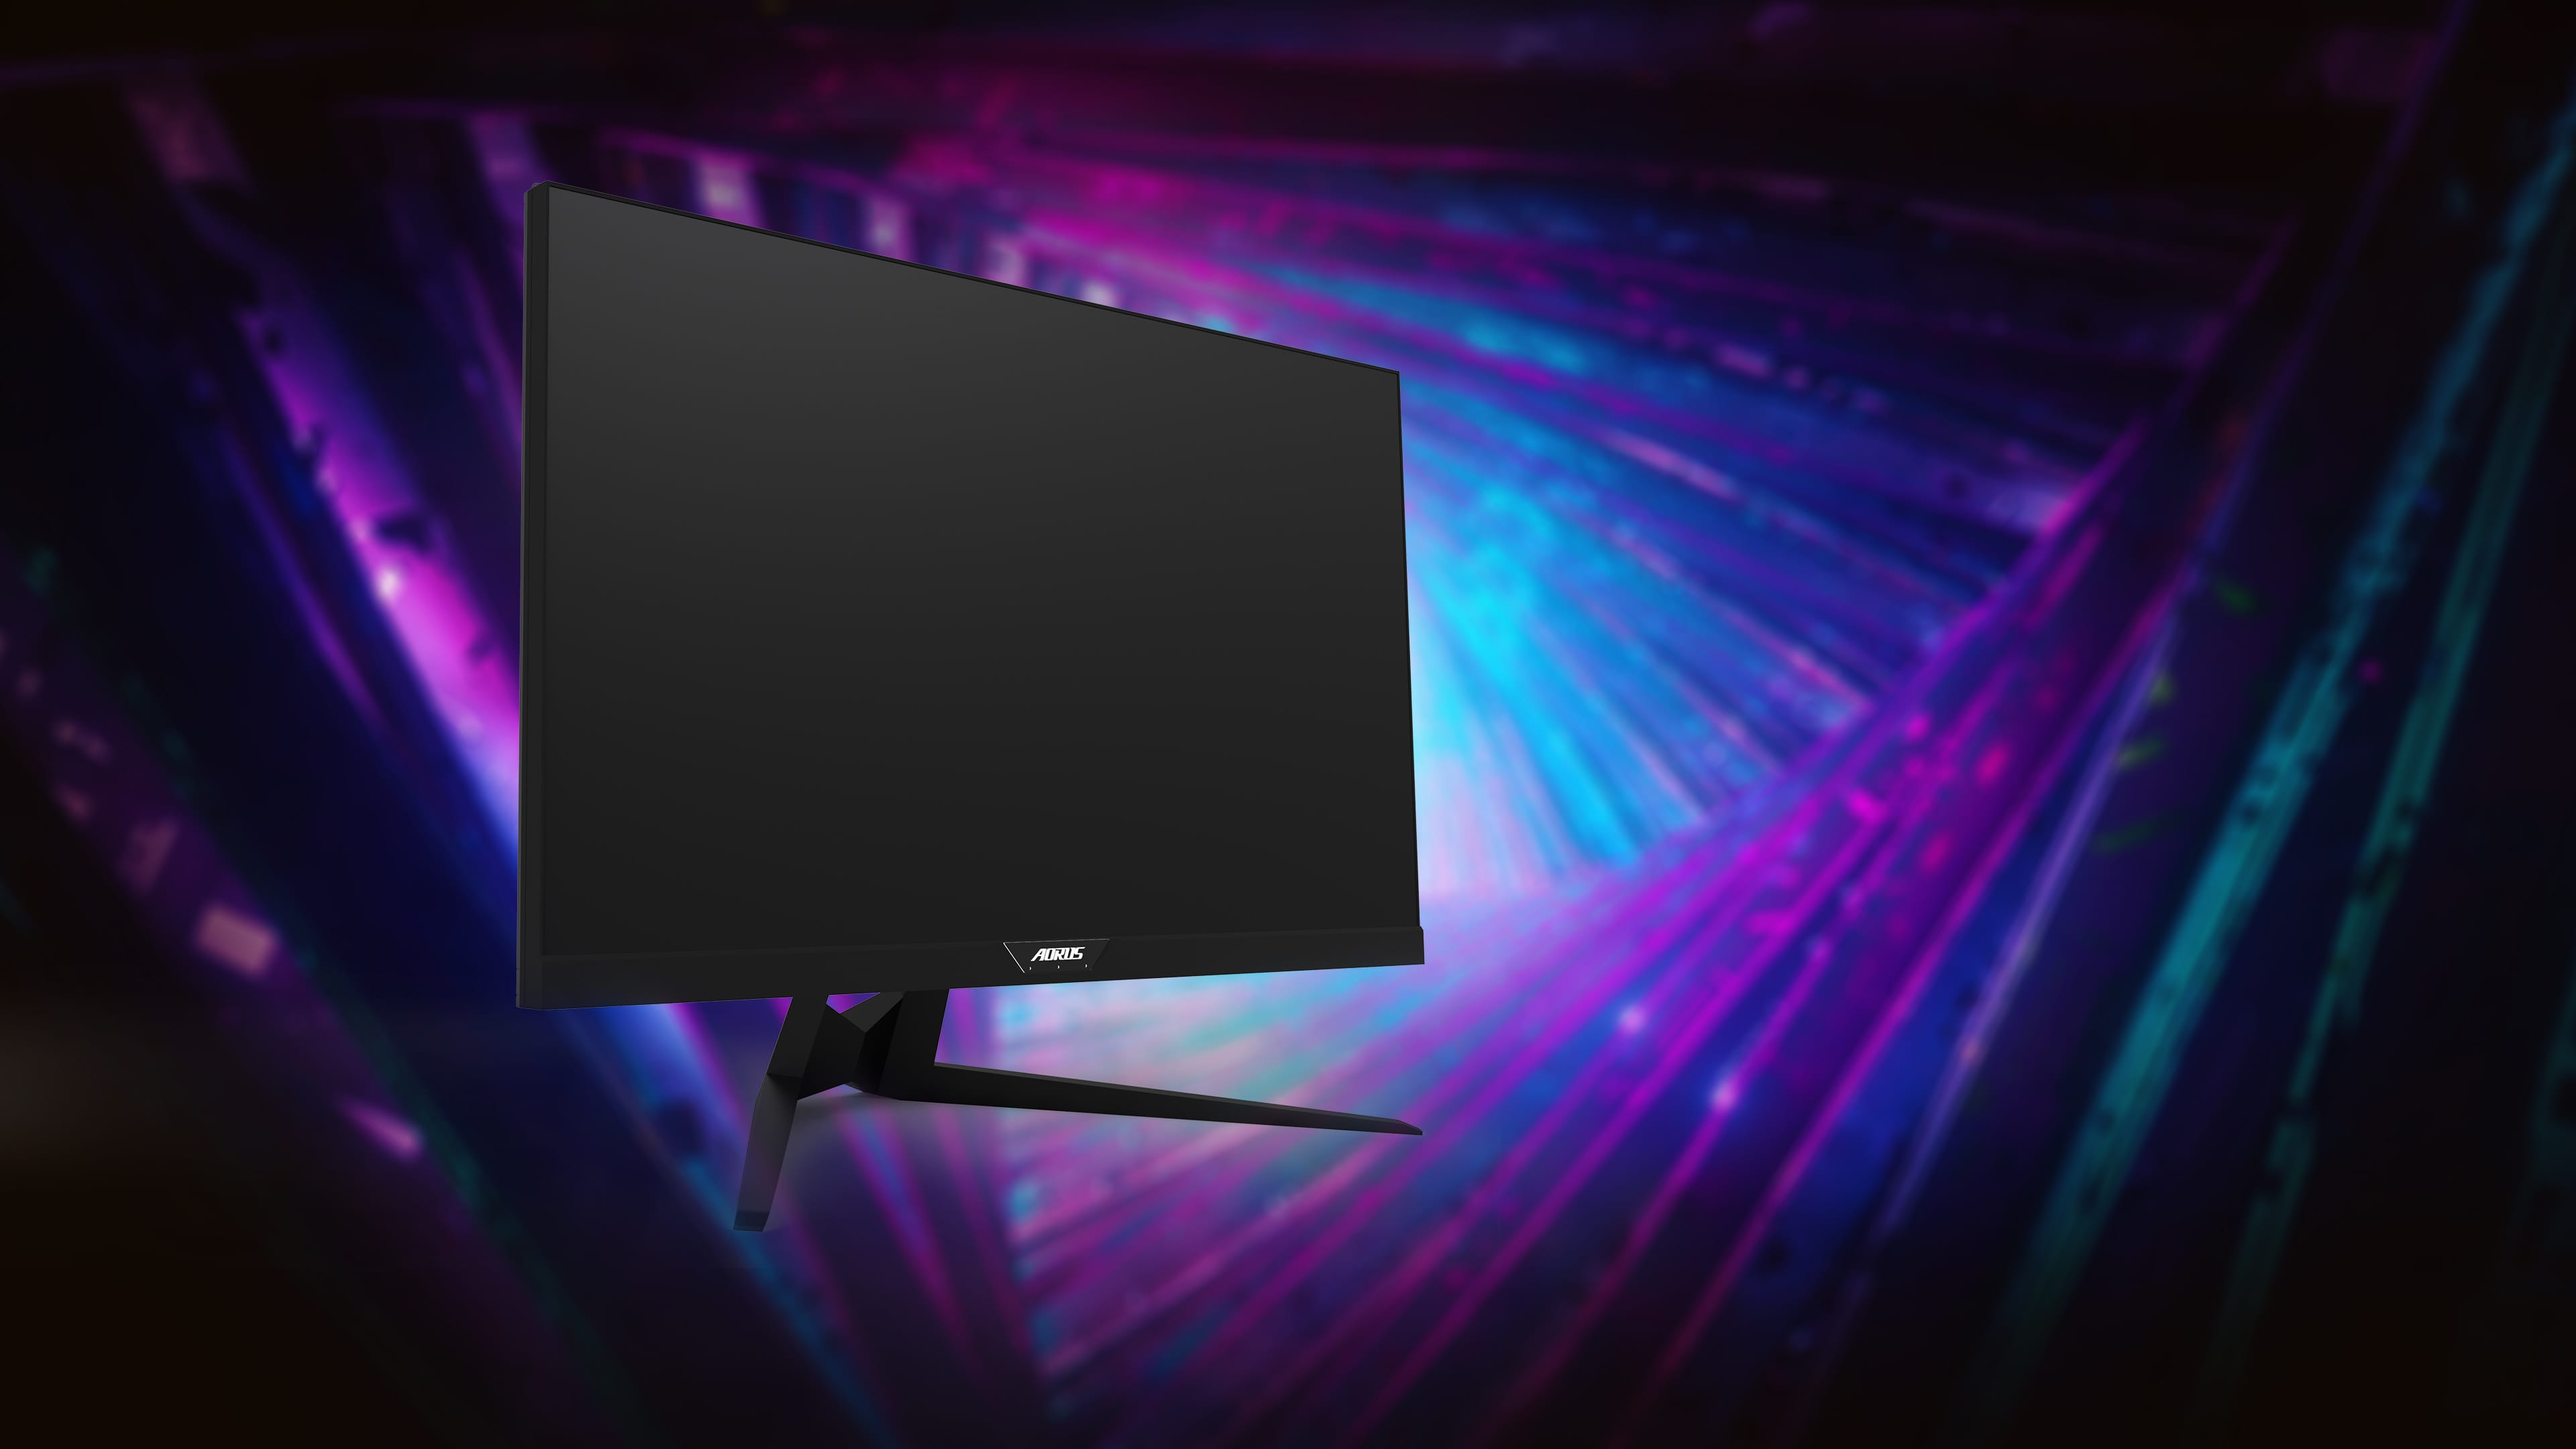
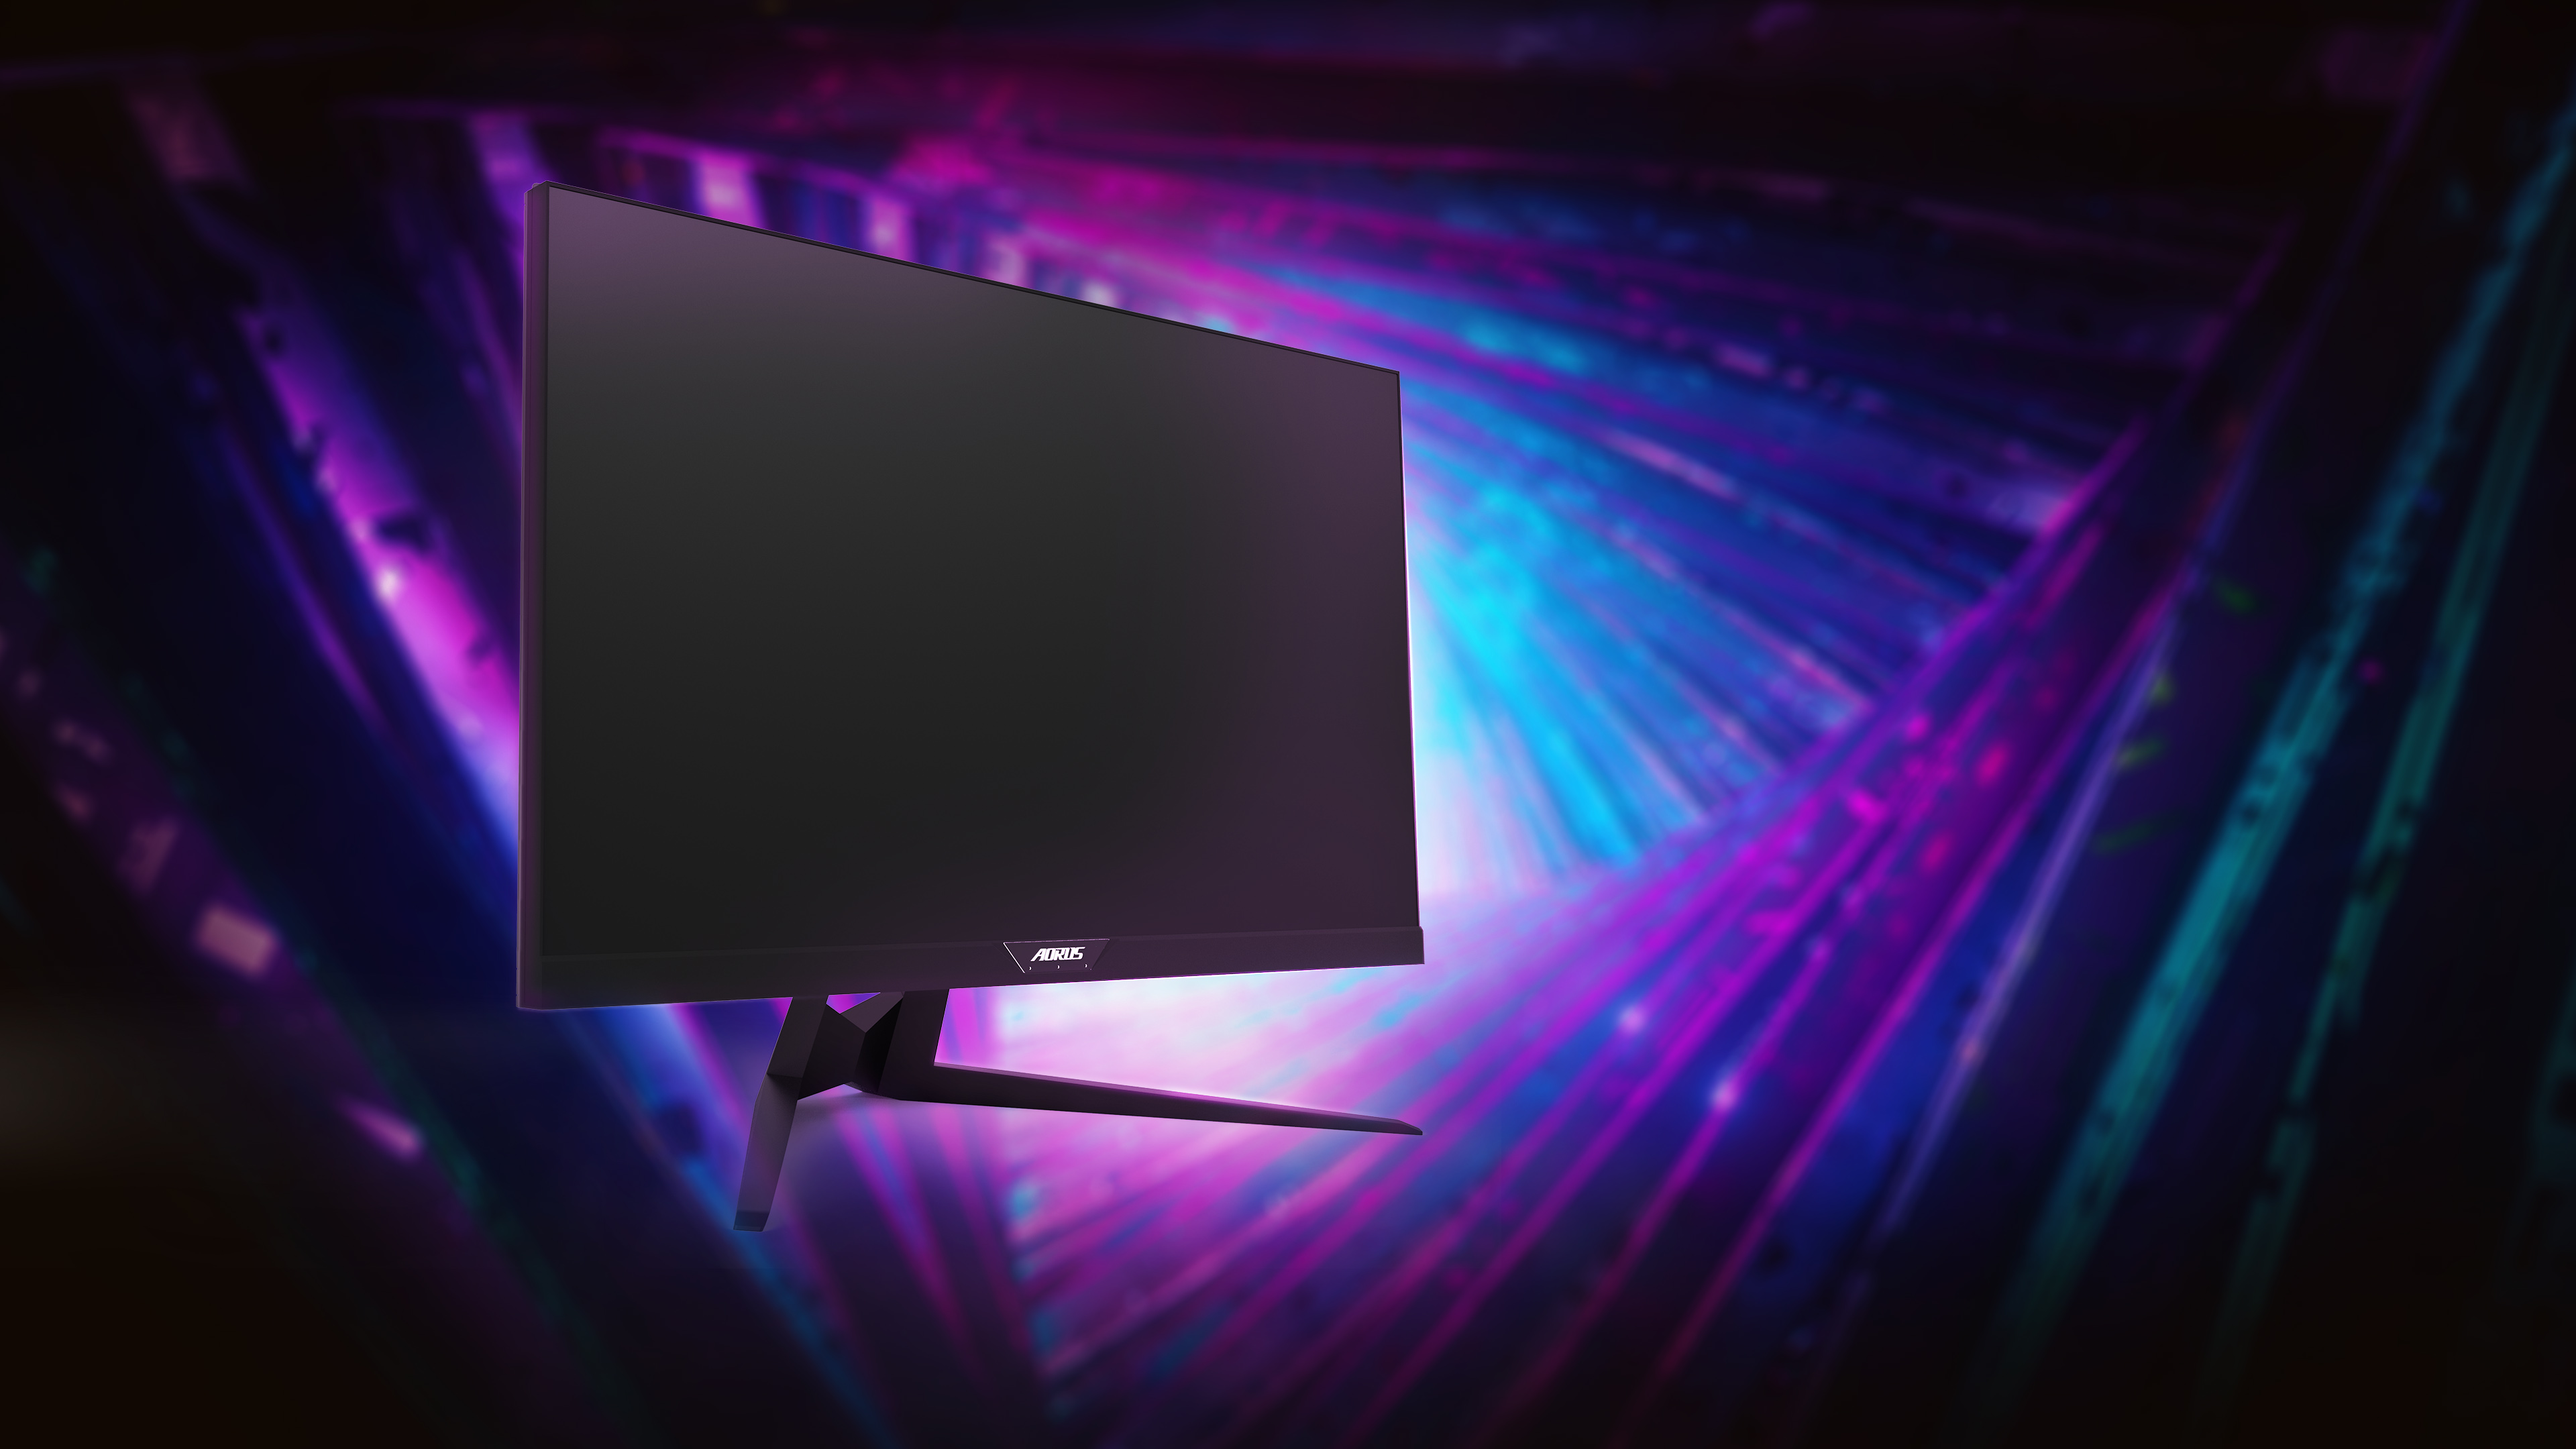
index: slide 2 bg

Changed region(s): [[0.25, 0.1551, 0.5625, 0.8685], [0.1875, 0.0931, 0.4062, 0.6204]]

diff --git a/assets/css/main.css b/assets/css/main.css
@@ -331,6 +331,23 @@
   background-image: url("../../assets/images/home-slider/HUD-bg.jpg");
 }
 
+.slide-inner--image .slide-inner--HUD-screen {
+  position: absolute;
+  background-image: url("../../assets/images/home-slider/HUD-screen.png");
+  width: 100%;
+  height: 100%;
+  background-size: cover;
+  background-position: center;
+  -webkit-animation-name: robot-bg;
+  animation-name: robot-bg;
+  -webkit-animation-duration: 6s;
+  animation-duration: 6s;
+  -webkit-animation-fill-mode: both;
+  animation-fill-mode: both;
+  -webkit-animation-iteration-count: infinite;
+  animation-iteration-count: infinite;
+}
+
 .slide-inner--HUD {
   width: 100%;
   height: 100%;
@@ -342,9 +359,17 @@
 .slide-inner--HUD .slide-inner--HUD-box {
   width: 100%;
   height: 100%;
-  -webkit-transform: translate(-300px, -100px);
-  -ms-transform: translate(-300px, -100px);
-  transform: translate(-300px, -100px);
+  -webkit-transform: translate(-310px, -100px);
+  -ms-transform: translate(-310px, -100px);
+  transform: translate(-310px, -100px);
+}
+
+.slide-inner--HUD .slide-inner--HUD-box_hud_bg {
+  width: 100%;
+  height: 100%;
+  position: absolute;
+  background-repeat: no-repeat;
+  background-position: center center;
 }
 
 .slide-inner--HUD .slide-inner--HUD-box_logo {
@@ -409,8 +434,8 @@
   width: 100%;
   height: 100%;
   position: absolute;
-  -webkit-transform: rotateX(-28deg) rotateY(-25deg) rotateZ(-2deg) translate(350px, -20px) scale(0.3);
-  transform: rotateX(-28deg) rotateY(-25deg) rotateZ(-2deg) translate(350px, -20px) scale(0.3);
+  -webkit-transform: rotateX(-28deg) rotateY(-25deg) rotateZ(-2.3deg) translate(380px, -80px) scale(0.25);
+  transform: rotateX(-28deg) rotateY(-25deg) rotateZ(-2.3deg) translate(380px, -80px) scale(0.25);
   -webkit-filter: drop-shadow(0 0 0.75rem #2272D2) brightness(150%);
   filter: drop-shadow(0 0 0.75rem #2272D2) brightness(150%);
 }
@@ -421,14 +446,14 @@
   animation-name: fill-a;
   -webkit-animation-duration: 2s;
   animation-duration: 2s;
-  -webkit-animation-delay: 2s;
-  animation-delay: 2s;
+  -webkit-animation-delay: 3.5s;
+  animation-delay: 3.5s;
   -webkit-animation-iteration-count: infinite;
   animation-iteration-count: infinite;
   -webkit-animation-timing-function: linear;
   animation-timing-function: linear;
-  -webkit-animation-fill-mode: backwards;
-  animation-fill-mode: backwards;
+  -webkit-animation-fill-mode: forwards;
+  animation-fill-mode: forwards;
 }
 
 .slide-inner--HUD .slide-inner--HUD-box_bar #up #Fill-9 {
@@ -437,14 +462,14 @@
   animation-name: fill-b;
   -webkit-animation-duration: 2s;
   animation-duration: 2s;
-  -webkit-animation-delay: 1.5s;
-  animation-delay: 1.5s;
+  -webkit-animation-delay: 3s;
+  animation-delay: 3s;
   -webkit-animation-iteration-count: infinite;
   animation-iteration-count: infinite;
   -webkit-animation-timing-function: linear;
   animation-timing-function: linear;
-  -webkit-animation-fill-mode: backwards;
-  animation-fill-mode: backwards;
+  -webkit-animation-fill-mode: forwards;
+  animation-fill-mode: forwards;
 }
 
 .slide-inner--HUD .slide-inner--HUD-box_bar #up #Fill-8 {
@@ -453,14 +478,14 @@
   animation-name: fill-c;
   -webkit-animation-duration: 2s;
   animation-duration: 2s;
-  -webkit-animation-delay: 1s;
-  animation-delay: 1s;
+  -webkit-animation-delay: 2.5s;
+  animation-delay: 2.5s;
   -webkit-animation-iteration-count: infinite;
   animation-iteration-count: infinite;
   -webkit-animation-timing-function: linear;
   animation-timing-function: linear;
-  -webkit-animation-fill-mode: backwards;
-  animation-fill-mode: backwards;
+  -webkit-animation-fill-mode: forwards;
+  animation-fill-mode: forwards;
 }
 
 .slide-inner--HUD .slide-inner--HUD-box_bar #up #Fill-7 {
@@ -469,25 +494,22 @@
   animation-name: fill-d;
   -webkit-animation-duration: 2s;
   animation-duration: 2s;
-  -webkit-animation-delay: 0.5s;
-  animation-delay: 0.5s;
+  -webkit-animation-delay: 2s;
+  animation-delay: 2s;
   -webkit-animation-iteration-count: infinite;
   animation-iteration-count: infinite;
   -webkit-animation-timing-function: linear;
   animation-timing-function: linear;
-  -webkit-animation-fill-mode: backwards;
-  animation-fill-mode: backwards;
+  -webkit-animation-fill-mode: forwards;
+  animation-fill-mode: forwards;
 }
 
 @-webkit-keyframes fill-a {
   0% {
     opacity: 0;
   }
-  50% {
+  25% {
     opacity: 1;
-  }
-  100% {
-    opacity: 0;
   }
 }
 
@@ -495,11 +517,8 @@
   0% {
     opacity: 0;
   }
-  50% {
+  25% {
     opacity: 1;
-  }
-  100% {
-    opacity: 0;
   }
 }
 
@@ -510,9 +529,6 @@
   50% {
     opacity: 1;
   }
-  100% {
-    opacity: 0;
-  }
 }
 
 @keyframes fill-b {
@@ -522,20 +538,14 @@
   50% {
     opacity: 1;
   }
-  100% {
-    opacity: 0;
-  }
 }
 
 @-webkit-keyframes fill-c {
   0% {
     opacity: 0;
   }
-  50% {
+  75% {
     opacity: 1;
-  }
-  100% {
-    opacity: 0;
   }
 }
 
@@ -543,11 +553,8 @@
   0% {
     opacity: 0;
   }
-  50% {
+  75% {
     opacity: 1;
-  }
-  100% {
-    opacity: 0;
   }
 }
 
@@ -555,11 +562,8 @@
   0% {
     opacity: 0;
   }
-  50% {
-    opacity: 1;
-  }
   100% {
-    opacity: 0;
+    opacity: 1;
   }
 }
 
@@ -567,11 +571,8 @@
   0% {
     opacity: 0;
   }
-  50% {
-    opacity: 1;
-  }
   100% {
-    opacity: 0;
+    opacity: 1;
   }
 }
 

diff --git a/src/css/main.scss b/src/css/main.scss
@@ -173,6 +173,18 @@
 /*---slide2 bg---*/
 .slide-inner--image {
   background-image: url('../../assets/images/home-slider/HUD-bg.jpg');
+  .slide-inner--HUD-screen {
+    position: absolute;
+    background-image: url('../../assets/images/home-slider/HUD-screen.png');
+    width: 100%;
+    height: 100%;
+    background-size: cover;
+    background-position: center;
+    animation-name: robot-bg;
+    animation-duration: 6s;
+    animation-fill-mode: both;
+    animation-iteration-count: infinite;
+  }
 }
 .slide-inner--HUD {
   width: 100%;
@@ -182,7 +194,12 @@
   .slide-inner--HUD-box {
     width: 100%;
     height: 100%;
-    transform: translate(-300px, -100px);
+    transform: translate(-310px, -100px);
+    &_hud_bg {
+      @include full_screen;
+      background-repeat: no-repeat;
+      background-position: center center;
+    }
     &_logo {
       @include full_screen;
       background-image: url('../../assets/images/home-slider/HUD-A.png');
@@ -220,65 +237,61 @@
     }
     &_bar {
       @include full_screen;
-      transform:rotateX(-28deg) rotateY(-25deg) rotateZ(-2deg) translate(350px,-20px) scale(0.3);
+      transform:rotateX(-28deg) rotateY(-25deg) rotateZ(-2.3deg) translate(380px,-80px) scale(0.25);
       filter: drop-shadow(0 0 0.75rem #2272D2) brightness(150%);
       #up {
         #Fill-10 {
           opacity: 0;
           animation-name: fill-a;
           animation-duration: 2s;
-          animation-delay :2s;
+          animation-delay :3.5s;
           animation-iteration-count: infinite;
           animation-timing-function: linear;
-          animation-fill-mode: backwards;
+          animation-fill-mode: forwards;  
         }
         #Fill-9 {
           opacity: 0;
           animation-name: fill-b;
           animation-duration: 2s;
-          animation-delay :1.5s;
+          animation-delay :3s;
           animation-iteration-count: infinite;
           animation-timing-function: linear;
-          animation-fill-mode: backwards;
+          animation-fill-mode: forwards;  
         }
         #Fill-8 {
           opacity: 0;
           animation-name: fill-c;
           animation-duration: 2s;
-          animation-delay :1s;
+          animation-delay :2.5s;
           animation-iteration-count: infinite;
           animation-timing-function: linear;
-          animation-fill-mode: backwards;
+          animation-fill-mode: forwards;  
         }
         #Fill-7 {
           opacity: 0;
           animation-name: fill-d;
           animation-duration: 2s;
-          animation-delay :0.5s;
+          animation-delay :2s;
           animation-iteration-count: infinite;
           animation-timing-function: linear;
-          animation-fill-mode: backwards;
+          animation-fill-mode: forwards;  
         }
       }
       @keyframes fill-a {
         0% {opacity: 0;}
-        50%{opacity: 1;}
-        100% {opacity: 0;}
+        25% {opacity: 1;}
       }
       @keyframes fill-b {
         0% {opacity: 0;}
-        50%{opacity: 1;}
-        100% {opacity: 0;}
+        50% {opacity: 1;}
       }
       @keyframes fill-c {
         0% {opacity: 0;}
-        50%{opacity: 1;}
-        100% {opacity: 0;}
+        75% {opacity: 1;}
       }
       @keyframes fill-d {
         0% {opacity: 0;}
-        50%{opacity: 1;}
-        100% {opacity: 0;}
+        100% {opacity: 1;}
       }
     }
   }  

diff --git a/index.html b/index.html
@@ -21,7 +21,7 @@
           <div class="height-full-viewport">
             <ul class="ms-navbar">
               <li class="nav-item"><a href="index.html" data-type="page-transition"><span class="ms-btn">home</span><span class="nav-item__label">Back to home page</span></a></li>
-              <li class="nav-item"><a href="about.html" data-type="page-transition"><span class="ms-btn">about</span><span class="nav-item__label">Learn more about the author</span></a></li>
+              <li class="nav-item"><a href="about.html" data-type="page-transition"><span class="ms-btn">about</span><span class="nav-item__label">Learn more about the GK</span></a></li>
             </ul>
           </div>
         </nav>
@@ -48,6 +48,7 @@
               <div class="slide-inner" data-swiper-parallax="45%">
                 <div class="overlay"></div>
                 <div class="slide-inner--image">
+                  <div class="slide-inner--HUD-screen"></div>
                   <div class="slide-inner--HUD">
                     <div class="slide-inner--HUD-box">
                       <div class="slide-inner--HUD-box_logo"></div>
